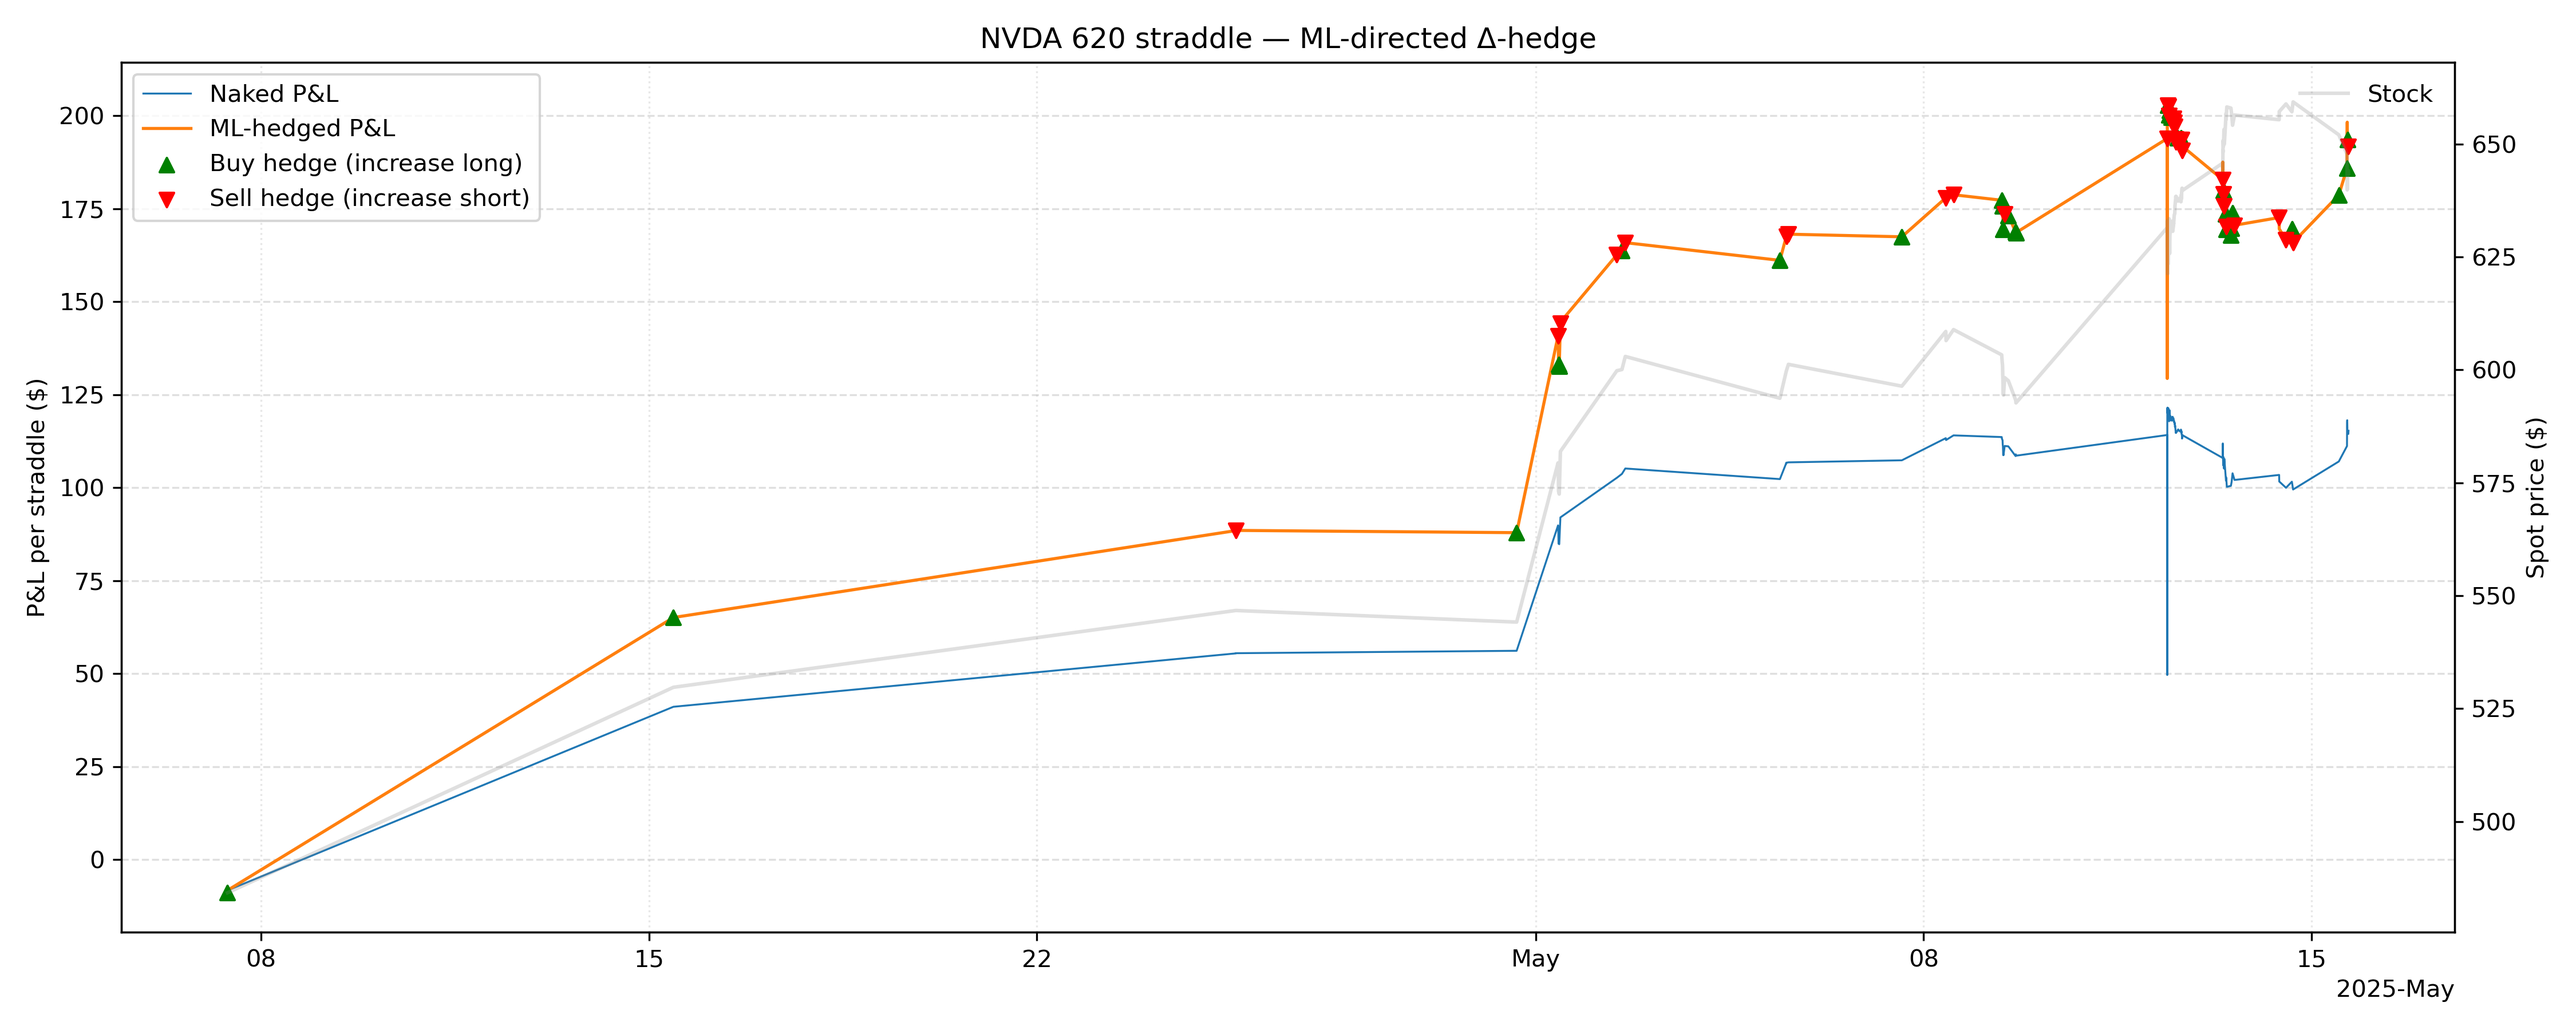
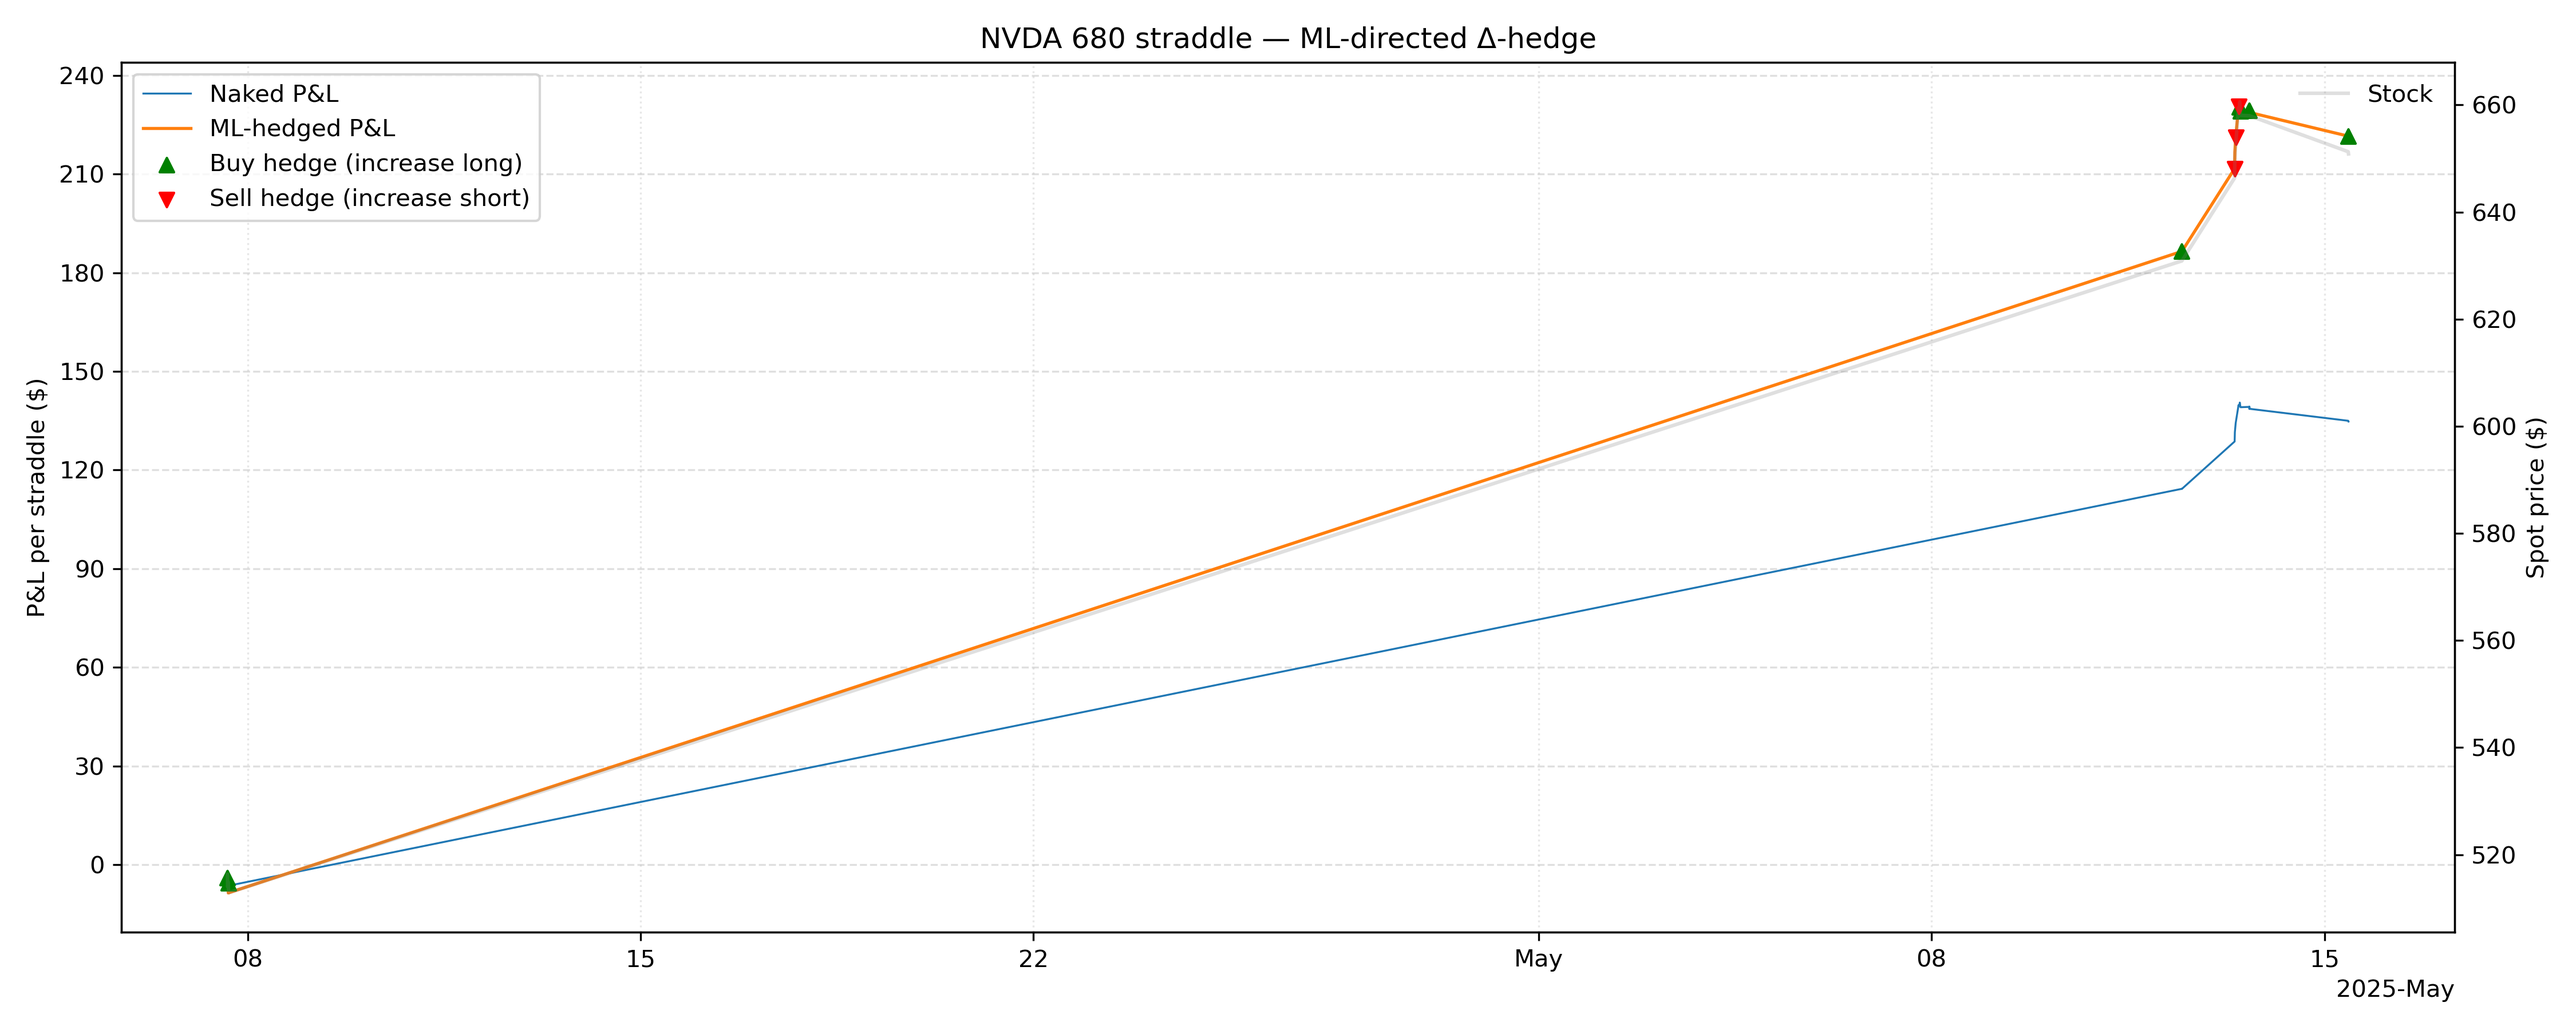
quick update

diff --git a/Assignment 3 Hedging Optimization/hedger_ml_live.py b/Assignment 3 Hedging Optimization/hedger_ml_live.py
@@ -14,7 +14,7 @@ from scipy.stats         import norm
 from scipy.optimize      import brentq
 
 # ─── User parameters ──────────────────────────────────────────────────
-STRIKE        = 620
+STRIKE        = 680
 ML_THRESHOLD  = 0.9
 MAX_TRADES    = 100
 COOLDOWN_MIN  = 10
